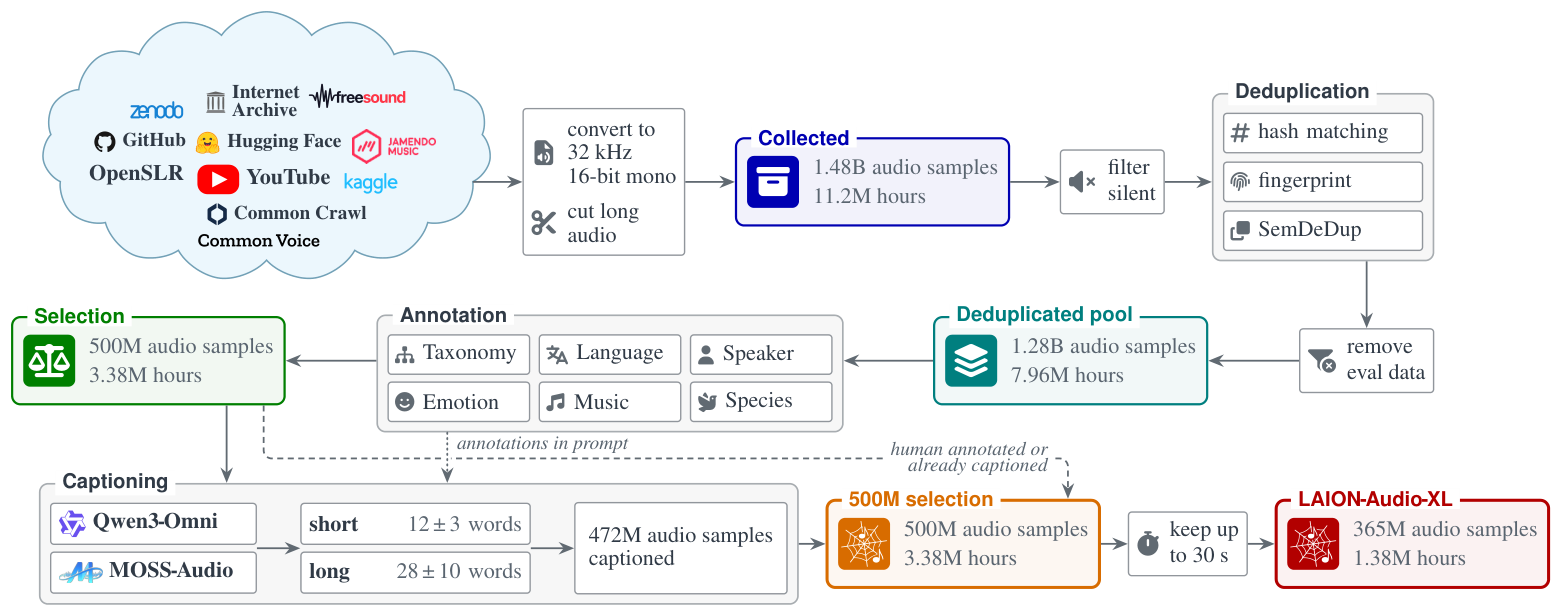
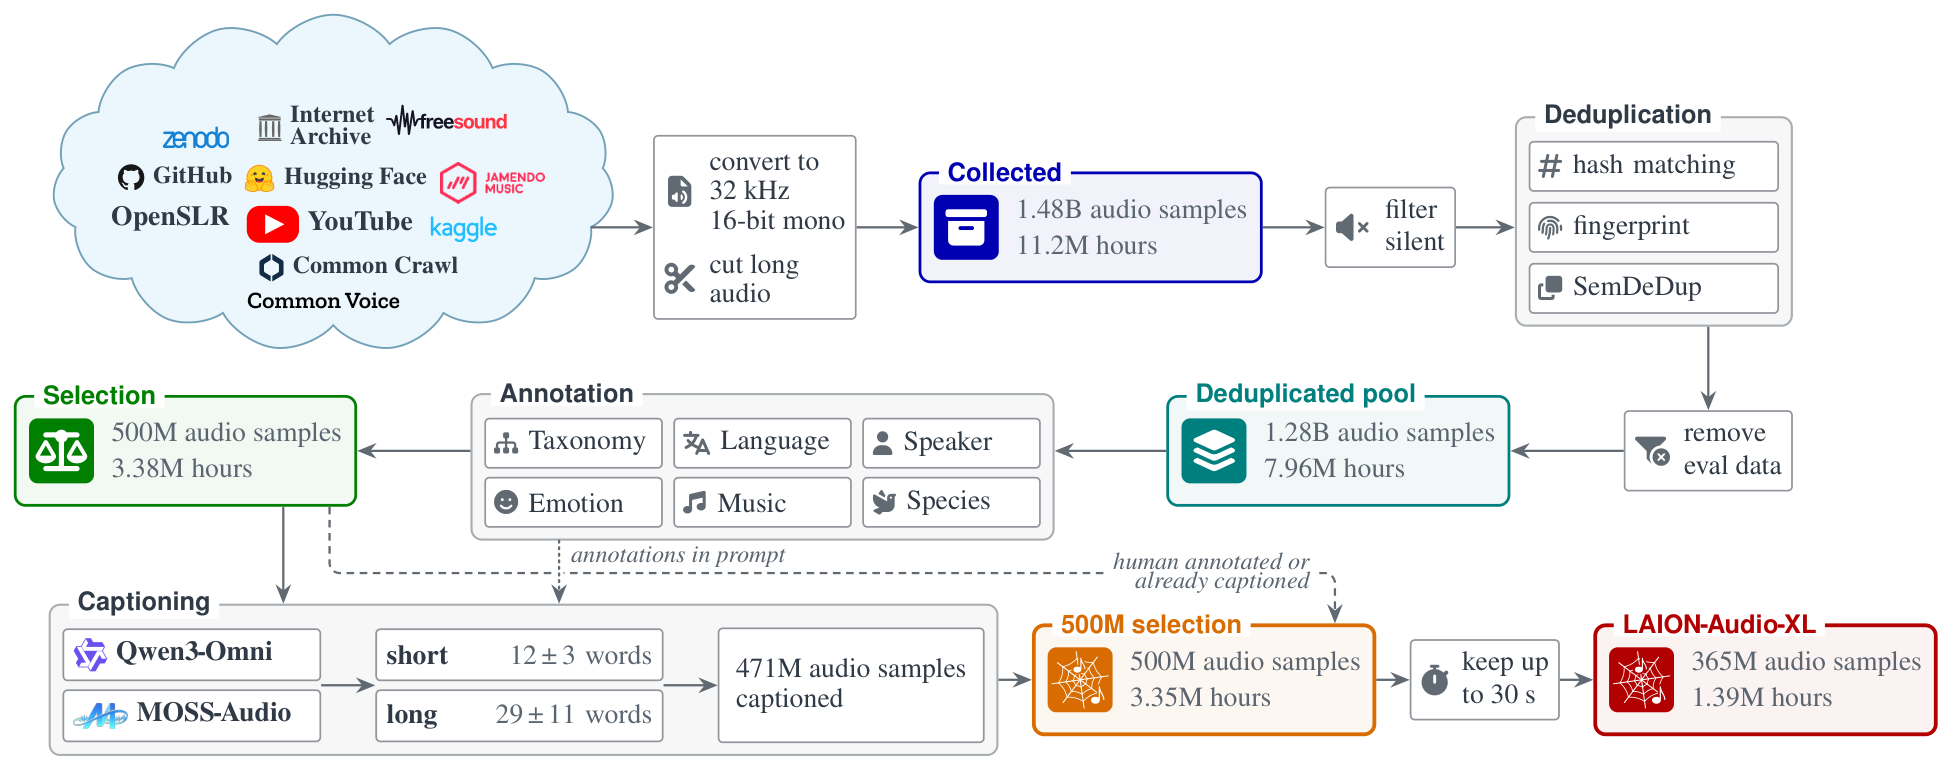
README: dark-mode pipeline figure, shown to dark-theme viewers via <picture>; both images rendered from the paper's current Figure 2 (471M captioned, long captions 29 ± 11 words)

diff --git a/README.md b/README.md
@@ -37,7 +37,10 @@ WebDataset tars, one folder per source dataset, ready as input `IN` of the pipel
 
 ## Pipeline
 
-![Pipeline](docs/assets/pipeline.png)
+<picture>
+  <source media="(prefers-color-scheme: dark)" srcset="docs/assets/pipeline_dark.png">
+  <img alt="Pipeline" src="docs/assets/pipeline.png">
+</picture>
 
 ```bash
 pip install -e .
